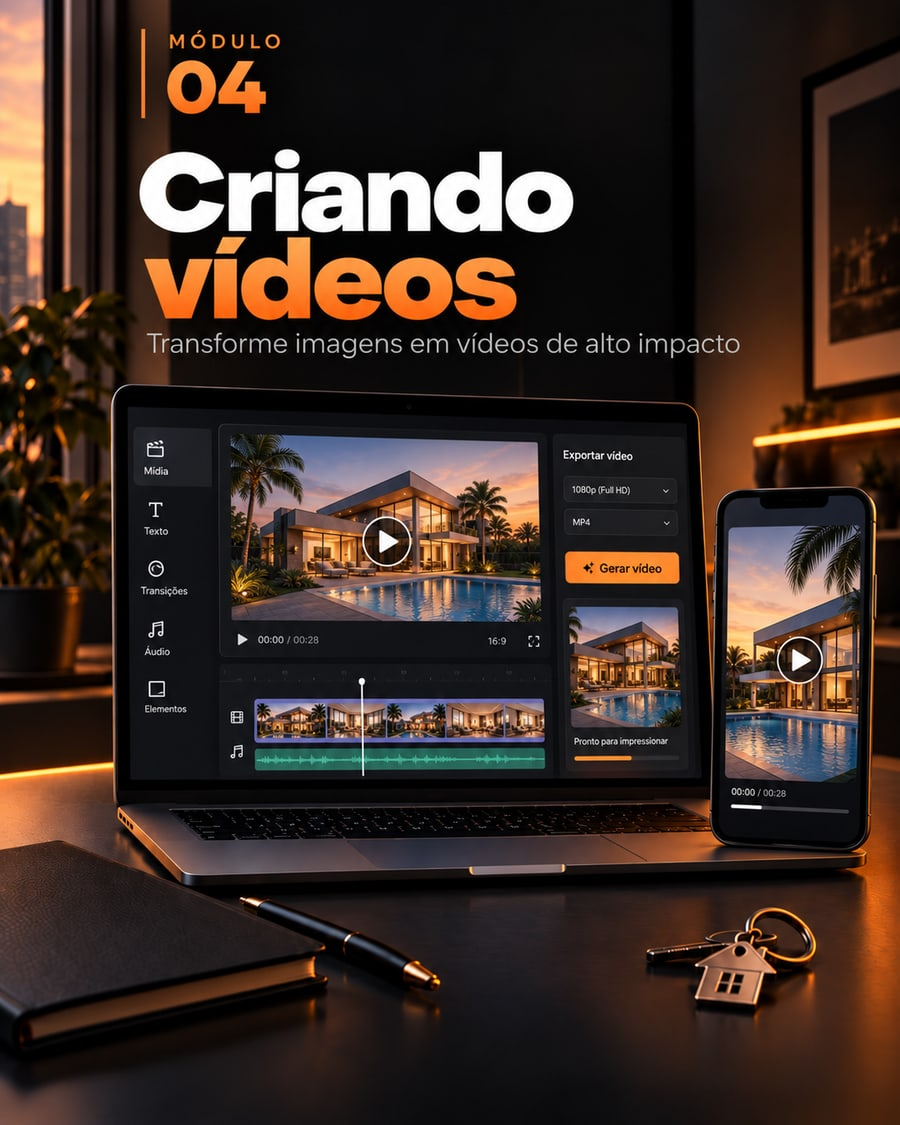
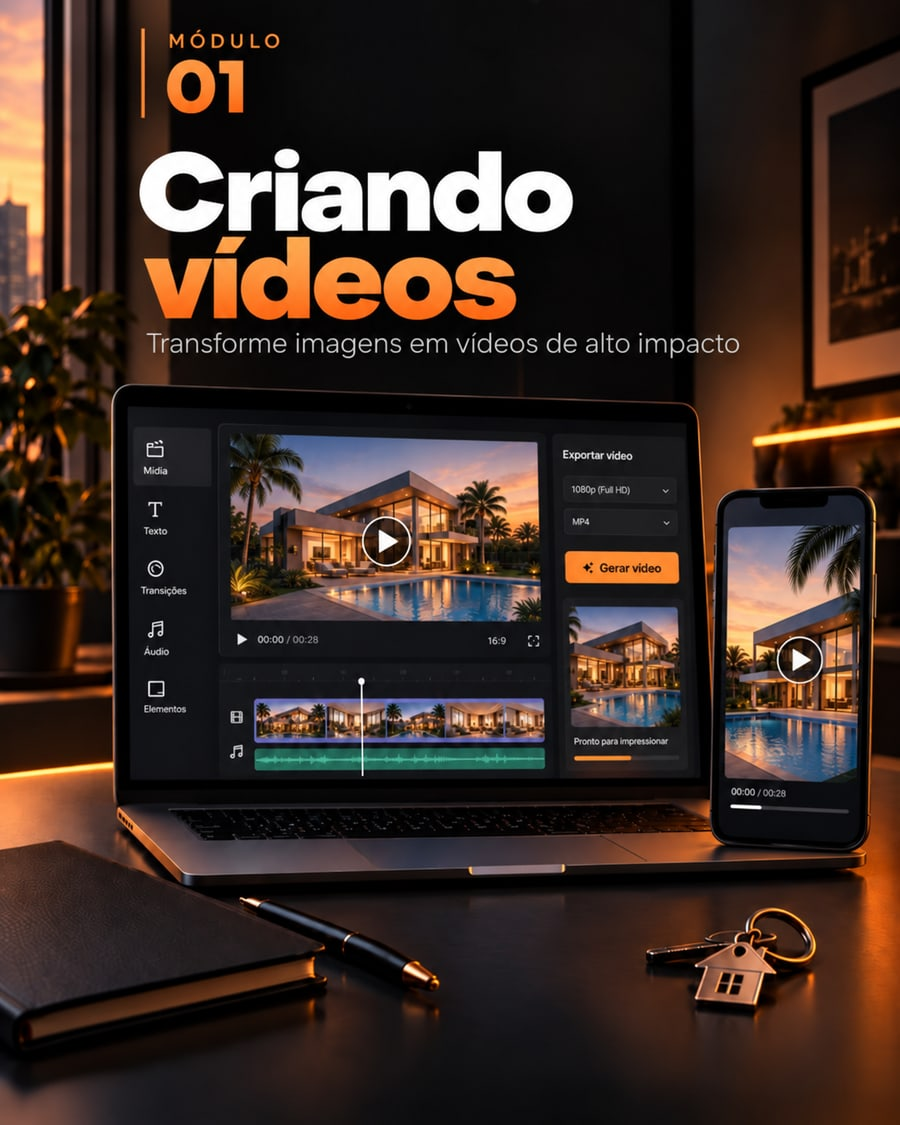
Reduce the quick training to its two real modules with the new covers

diff --git a/lib/trainings.ts b/lib/trainings.ts
@@ -10,11 +10,11 @@ const fundamentos: Training = {
   title: "Treinamento rápido",
   headline: "Domine a criação de conteúdos imobiliários com IA",
   description:
-    "Aprenda a usar a plataforma e criar seus primeiros resultados — 5 vídeos curtos.",
+    "Aprenda a usar a plataforma e criar seus primeiros resultados — 2 vídeos curtos.",
   level: "Introdução",
   scene: "outros",
   thumbnailAlt: "Plantas baixas e laptop sobre uma mesa de mármore",
-  totalLessons: 5,
+  totalLessons: 2,
   // A single sequence — the UI treats this course as one short playlist.
   modules: [
     {
@@ -22,39 +22,18 @@ const fundamentos: Training = {
       title: "Treinamento rápido",
       lessons: [
         {
-          slug: "como-funciona-a-plataforma",
-          title: "Como funciona a plataforma",
-          summary: "Visão geral da IMOVIX e onde encontrar cada recurso.",
-          duration: 240,
-          thumbnail: "/thumbnails/treinamento-fundamentos-imovel-ia-como-funciona-a-plataforma.jpg",
-        },
-        {
-          slug: "gerando-seu-primeiro-prompt",
-          title: "Gerando seu primeiro prompt",
-          summary: "Como escolher um módulo, preencher os campos e gerar o prompt.",
-          duration: 300,
-          thumbnail: "/thumbnails/treinamento-fundamentos-imovel-ia-gerando-seu-primeiro-prompt.jpg",
-        },
-        {
-          slug: "criando-imagens",
-          title: "Criando imagens",
-          summary: "Como usar o prompt gerado para criar imagens com IA.",
-          duration: 360,
-          thumbnail: "/thumbnails/treinamento-fundamentos-imovel-ia-criando-imagens.jpg",
-        },
-        {
           slug: "criando-videos",
-          title: "Criando vídeos",
-          summary: "Como usar imagens e prompts para gerar vídeos.",
+          title: "Módulo 01 · Criando vídeos",
+          summary: "Transforme imagens em vídeos de alto impacto.",
           duration: 360,
           thumbnail: "/thumbnails/treinamento-fundamentos-imovel-ia-criando-videos.jpg",
         },
         {
-          slug: "melhorando-resultados",
-          title: "Melhorando resultados",
-          summary: "Como corrigir resultados ruins e refinar uma geração.",
-          duration: 300,
-          thumbnail: "/thumbnails/treinamento-fundamentos-imovel-ia-melhorando-resultados.jpg",
+          slug: "casa-no-terreno",
+          title: "Módulo 02 · Casa no terreno",
+          summary: "Aprenda a transformar terrenos em projetos visuais realistas.",
+          duration: 360,
+          thumbnail: "/thumbnails/treinamento-fundamentos-imovel-ia-casa-no-terreno.jpg",
         },
       ],
     },
